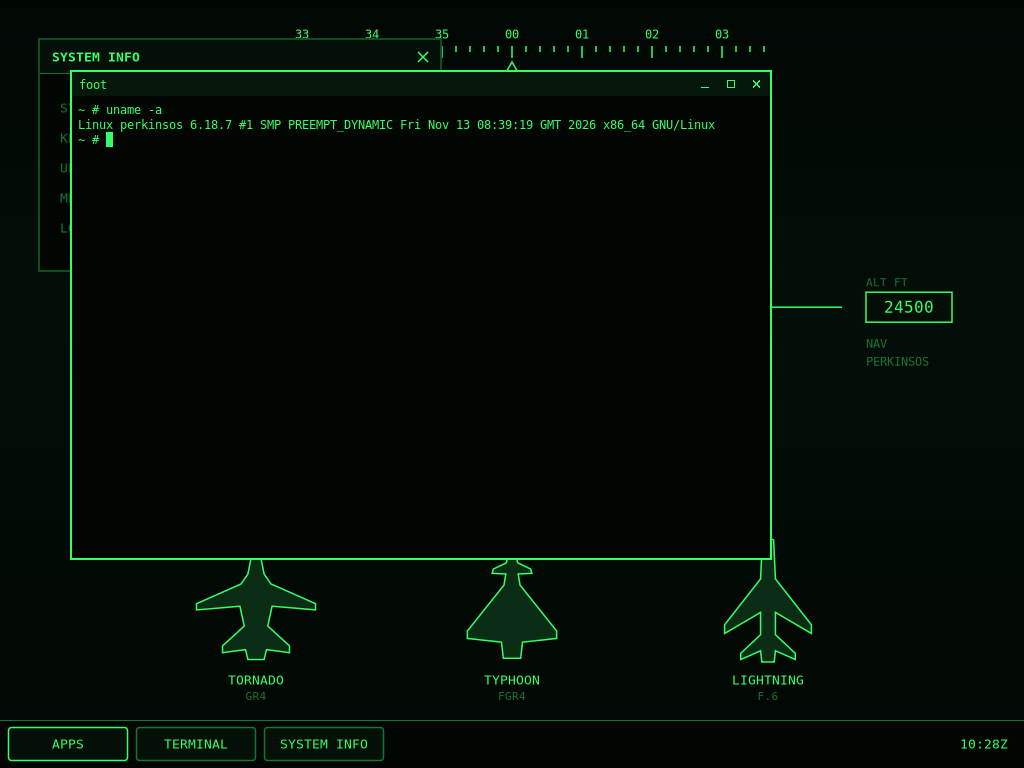
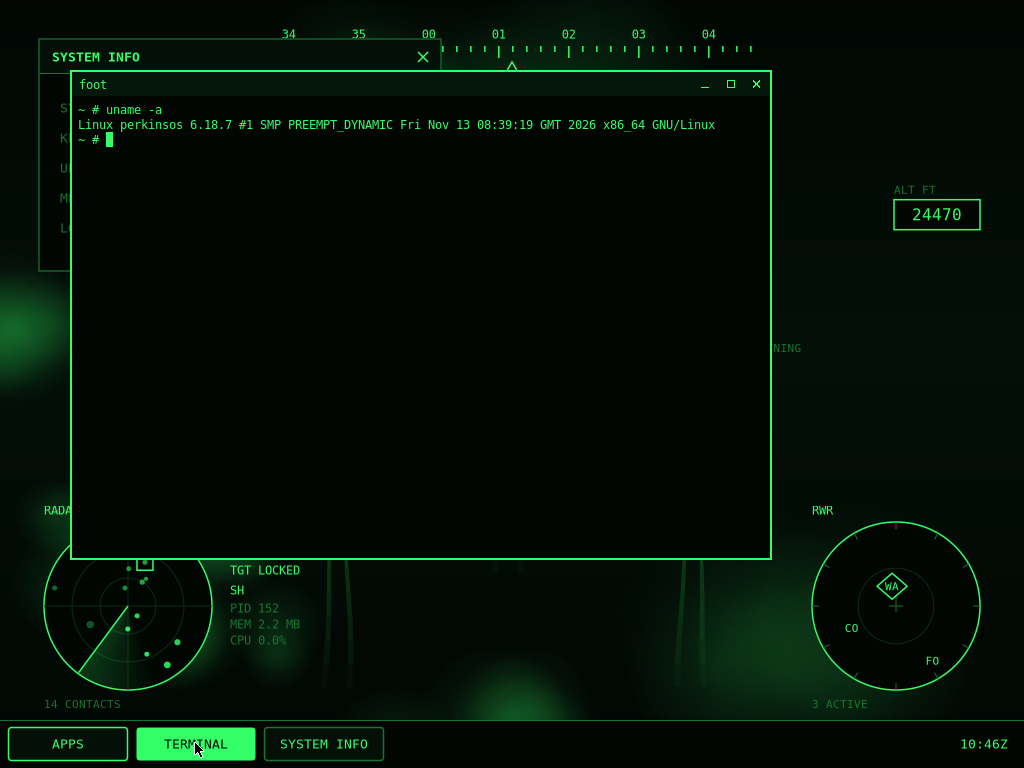
Re-record the demo and document the live instruments

diff --git a/README.md b/README.md
@@ -1,6 +1,6 @@
 # PerkinsOS
 
-A custom Linux-based desktop OS. The kernel is real Linux; the desktop on top of it is this repo: a Wayland compositor, dock, launcher and an app, booting straight to the desktop in QEMU. It is themed as a fighter-jet head-up display, with a Tornado, Typhoon and Lightning on the wallpaper.
+A custom Linux-based desktop OS. The kernel is real Linux; the desktop on top of it is this repo: a Wayland compositor, dock, launcher and an app, booting straight to the desktop in QEMU. It is themed as a fighter-jet head-up display: the wallpaper is an animated formation of a Typhoon, Tornado and Lightning, with a radar and a radar warning receiver that show the machine's running programs.
 
 [![CI](https://github.com/Maxcmperkins/PerkinsOS/actions/workflows/ci.yml/badge.svg)](https://github.com/Maxcmperkins/PerkinsOS/actions/workflows/ci.yml)
 
@@ -47,6 +47,13 @@ More in [docs/ARCHITECTURE.md](docs/ARCHITECTURE.md).
 
 Click a window to focus it. Drag a title bar to move a window.
 
+The instruments on the wallpaper are live:
+
+- **Radar**: every contact is a running program. Older programs sit near the centre; one you have just started appears at the edge. Bigger dots use more memory. Hover a contact to see what it is; click to lock it and keep its name, PID, memory and CPU on screen. Click again to break the lock.
+- **RWR**: every symbol is a program using the CPU right now, labelled with the first two letters of its name. The busier it is, the closer to the centre; the busiest gets a diamond.
+
+The heading, speed and altitude are a simulation; the radar and RWR are real data from `/proc`.
+
 ## Build and run
 
 Requires Linux (WSL2 Ubuntu on Windows works). Setup is in [docs/SETUP.md](docs/SETUP.md).
@@ -67,7 +74,7 @@ make shell          # rebuild only shell/ (seconds)
 buildroot/    Buildroot external tree: configs, packages, rootfs overlay, init
 compositor/   the Wayland compositor
 shell/        dock, launcher, apps, and code they share
-ci/           headless tests, screenshot and GIF tools
+ci/           headless tests; screenshot, mouse and GIF tools
 docs/         plan, setup, architecture, week-by-week notes, write-up
 ```
 
@@ -87,7 +94,6 @@ docs/         plan, setup, architecture, week-by-week notes, write-up
 Ideas parked here so they don't derail the plan.
 
 - Key repeat in the launcher, and clicking a result to start it
-- Animate the wallpaper: a moving horizon, or live numbers in the HUD read-outs
 - Icons on the dock; System Info as cockpit gauges
 - Server-side title bars, so every window gets the same one
 - Alt+drag to move a window from anywhere

diff --git a/docs/ARCHITECTURE.md b/docs/ARCHITECTURE.md
@@ -54,6 +54,8 @@ Both use the same handshake: the client commits with no buffer, the compositor r
 - `apps.h`: the list of apps shown by both the dock and the launcher.
 - `theme.h`: the HUD colours, font and line weight used by every client.
 
+The wallpaper is the one client that animates. It never draws on its own timer: after each frame it asks the compositor for a **frame callback** and draws the next frame when that arrives, capped at 12 frames a second. The compositor only sends frame callbacks to visible surfaces, so a wallpaper hidden behind a maximized window stops drawing. It alternates between two buffers so it never draws into the one the compositor is showing. Its radar and RWR read the process list from `/proc` every two seconds.
+
 ## How a frame reaches the screen
 
 1. A client draws into its shared-memory buffer and sends `wl_surface.attach` + `commit`.
@@ -87,10 +89,10 @@ One number pins everything: `BUILDROOT_VERSION` in the `Makefile` (2026.02.3, an
 
 ## Tests
 
-All tests boot the real image in QEMU with no window and drive it two ways: typing into the serial console through a FIFO, and pressing keys on the virtual keyboard through QEMU's monitor socket (`ci/lib.sh`).
+All tests boot the real image in QEMU with no window and drive it three ways: typing into the serial console through a FIFO, pressing keys on the virtual keyboard through QEMU's monitor socket, and moving and clicking the mouse through QEMU's QMP socket (`ci/lib.sh`, `ci/mouse.py`).
 
 - `make test`: reaches `perkinsos login:`, logs in, powers off.
-- `make test-desktop`: the desktop came up at boot; the screen isn't blank; Alt+Enter opens a terminal and Alt+Q closes it; layer-shell is advertised; Alt+P opens the launcher, typing filters it and Enter starts System Info; a maximized window fills the screen and stops at the dock. Screenshots are left in `output/*-test.png`.
+- `make test-desktop`: the desktop came up at boot; the screen isn't blank; Alt+Enter opens a terminal and Alt+Q closes it; layer-shell is advertised; Alt+P opens the launcher, typing filters it and Enter starts System Info; clicking a dock button starts its program; the wallpaper animates and clicking a radar contact locks it; a maximized window fills the screen and stops at the dock. Screenshots are left in `output/*-test.png`.
 - `make demo`: records `docs/demo.gif` the same way.
 
 GitHub Actions (`.github/workflows/ci.yml`) builds the image from scratch and runs both tests on every push.
